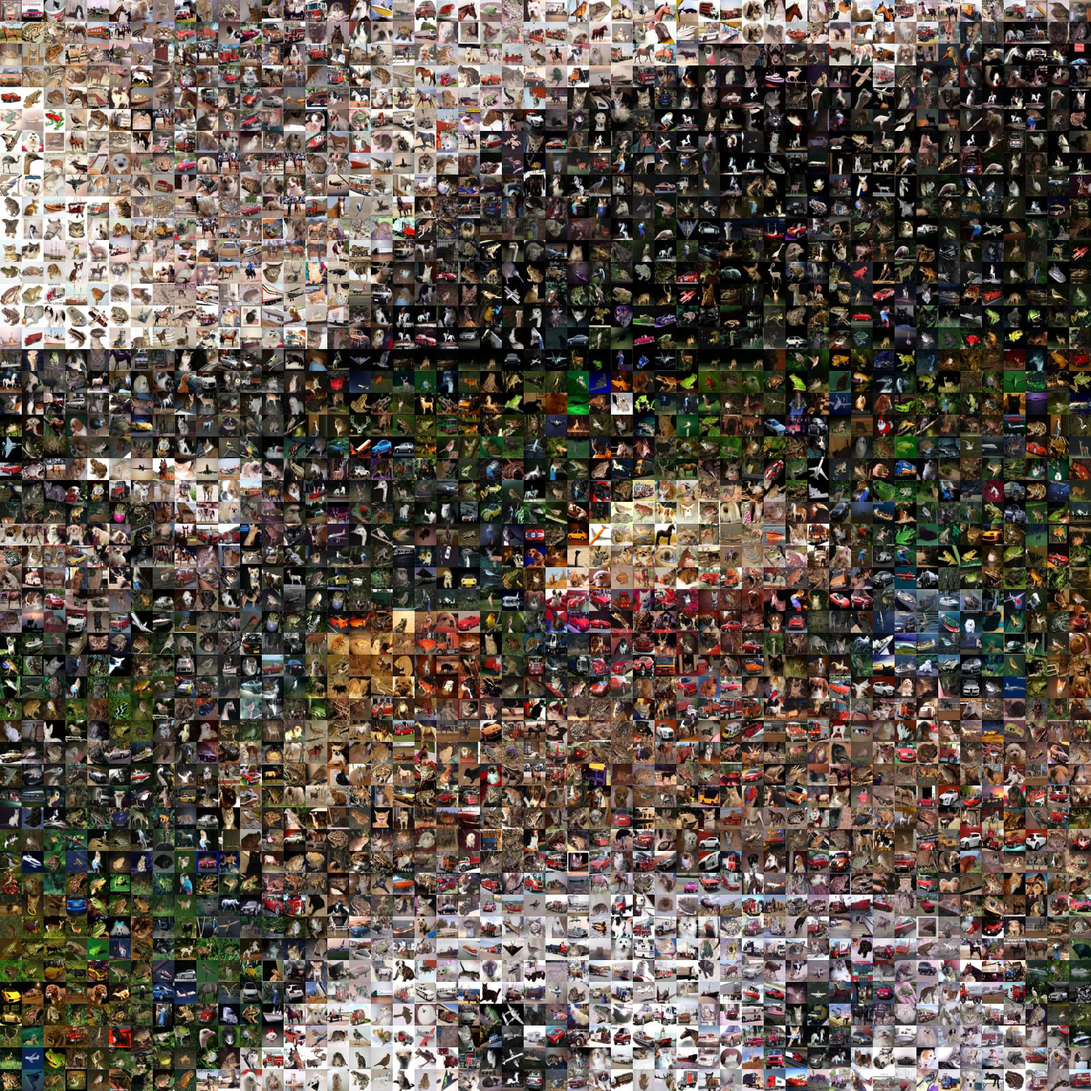
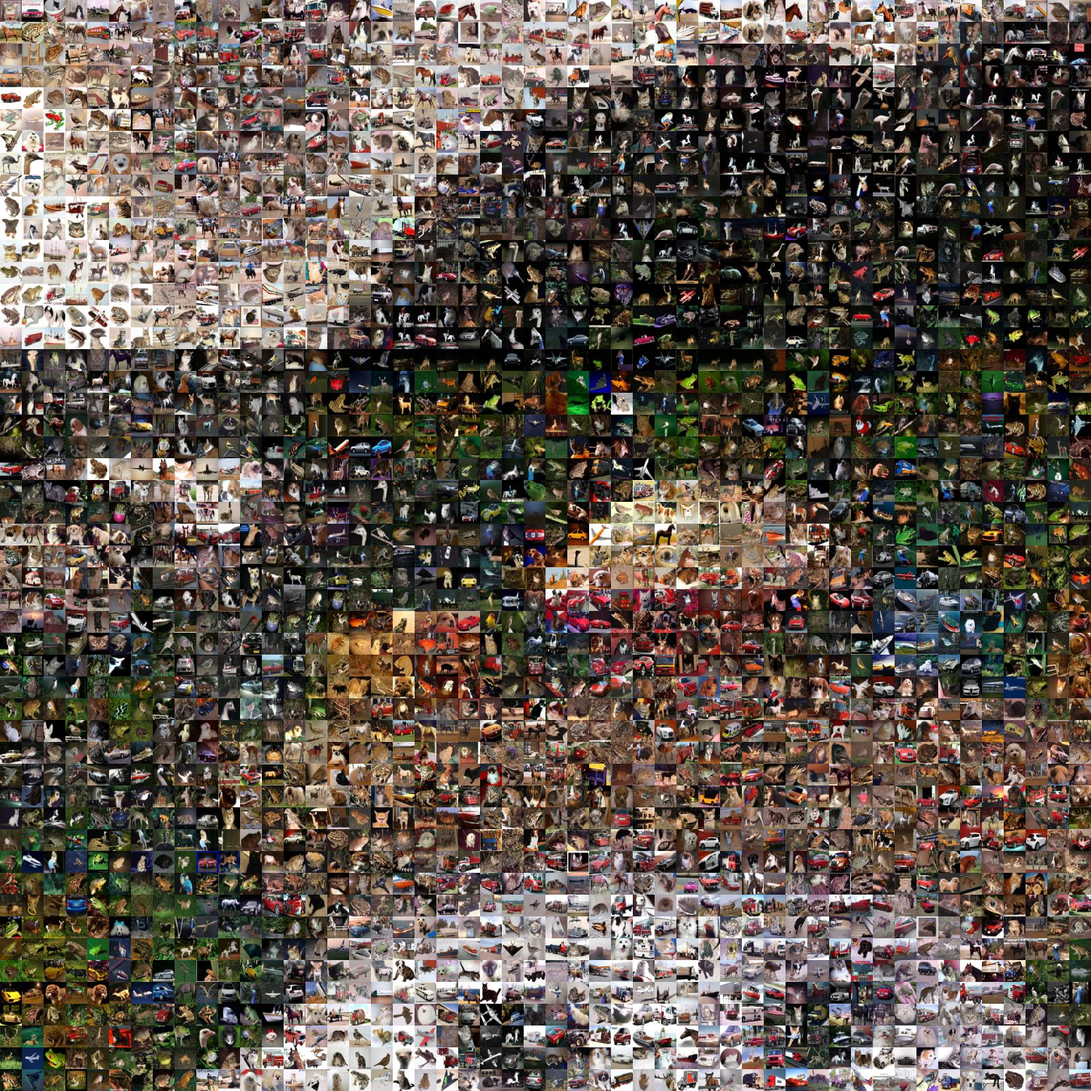
update match blocks for speed

diff --git a/code/mosaic.py b/code/mosaic.py
@@ -152,14 +152,16 @@ class Mosaic:
                 else:
                     found = False
                     depth = 10
+                    cnt = 0
                     while not found:
                         match = self.tree.query(template, p=1, k=depth)
-                        for k in range(0, depth):
+                        for k in range(cnt, depth):
                             if(not flag[match[1][k]]):
                                 flag[match[1][k]] = 1
                                 self.image_index[i, j] = match[1][k]
                                 found = True
                                 k = depth
+                        cnt = depth
                         depth += 1
 
 
